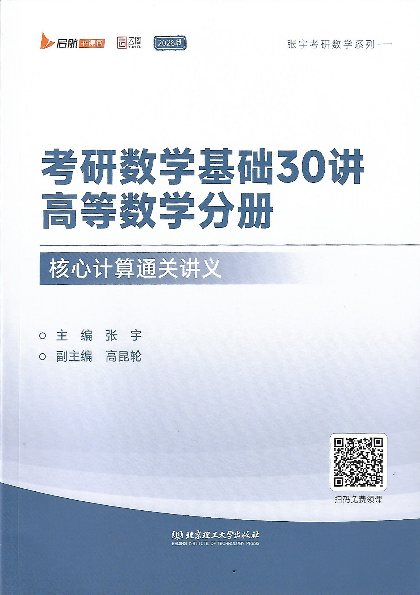
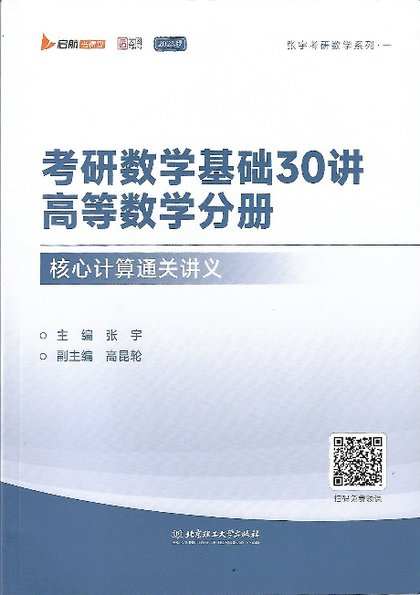
封面二次裁边 + 书本统一高度
- 梯形校正后再按边缘色带裁一次，修掉四边残留的灰底
- 九张用严格灰色判定（通道差<14 且亮度<100），避免误切油画暗部
- 政治封面亮黄底，单独用相对亮度判定
- 书本取消高矮错落，统一 176px；≤1024px 收窄到 110×152 避免 6 本溢出

diff --git a/assets/style.css b/assets/style.css
@@ -576,9 +576,8 @@ main {
               inset 0 0 0 1px rgba(255, 255, 255, .22);
 }
 
-.book:nth-child(3n)   { height: 168px; }
-.book:nth-child(4n)   { height: 184px; }
-.book:nth-child(5n+1) { height: 170px; }
+/* 所有书统一 176px 高：真书封面本身有各自的视觉重心，
+   再叠加高矮错落反而显得歪。整齐一排更像真书架。 */
 
 /* 有真实封面时：图片铺满，去掉内边距和文字层 */
 .book.has-cover { padding: 0; }
@@ -1074,8 +1073,8 @@ main {
   .panel { animation: none; }
   .post-grid, .latest-grid { grid-template-columns: 1fr; }
   .search-box { display: none; }
-  .book { width: 116px; height: 160px; }
-  .books { gap: 14px; padding: 26px 14px 0; min-height: 196px; }
+  .book { width: 110px; height: 152px; }
+  .books { gap: 12px; padding: 24px 12px 0; min-height: 188px; }
 }
 
 @media (max-width: 768px) {
